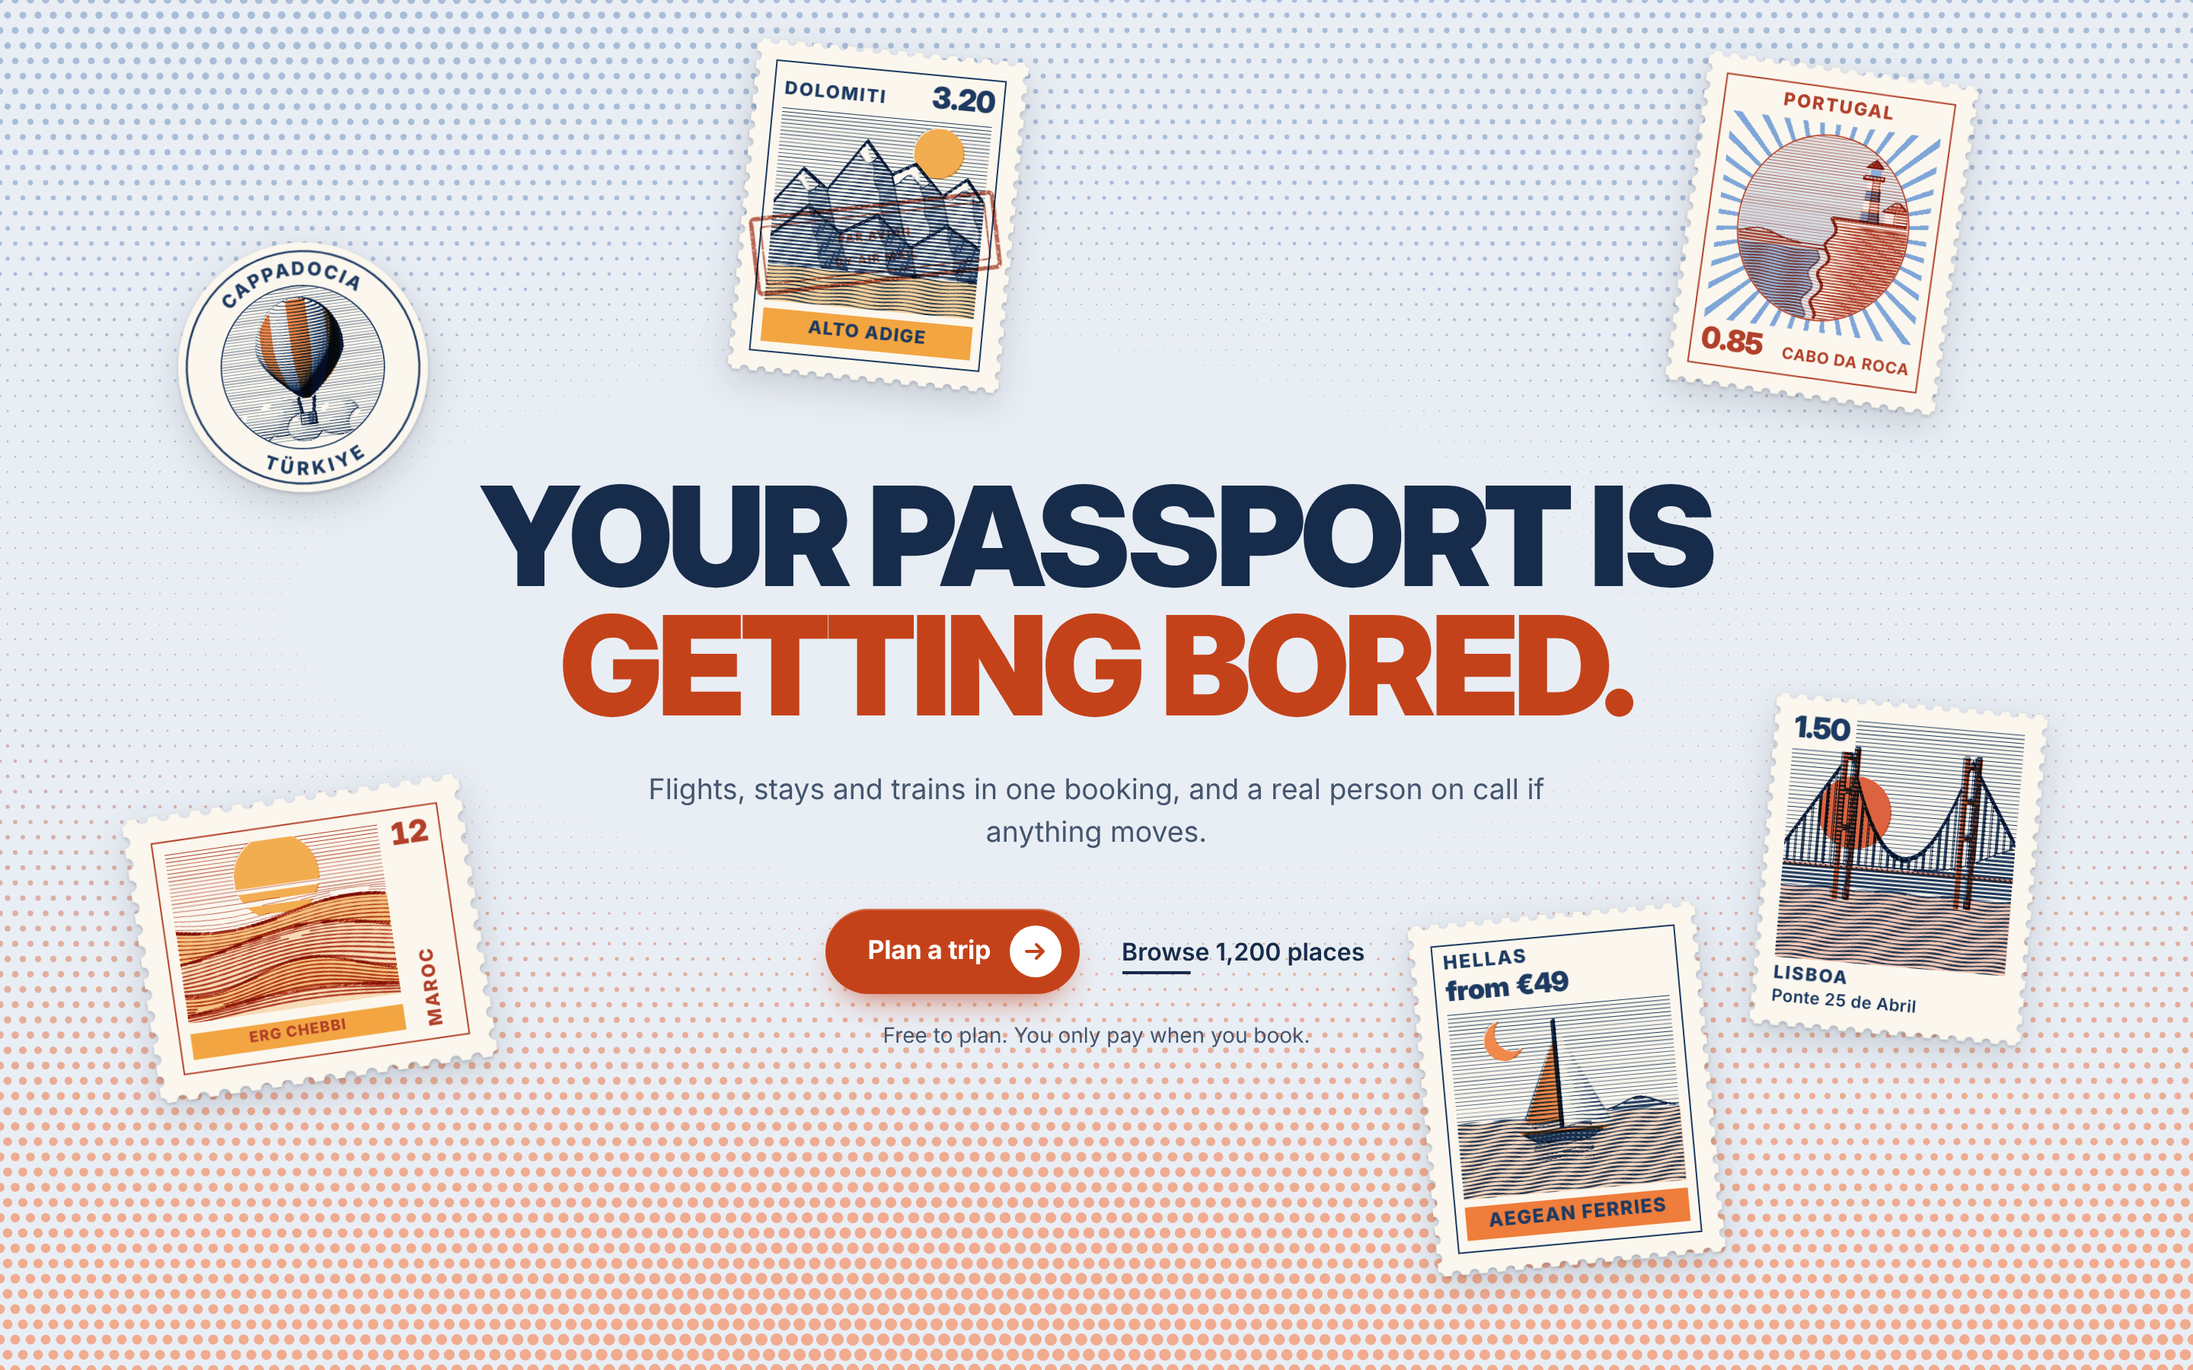
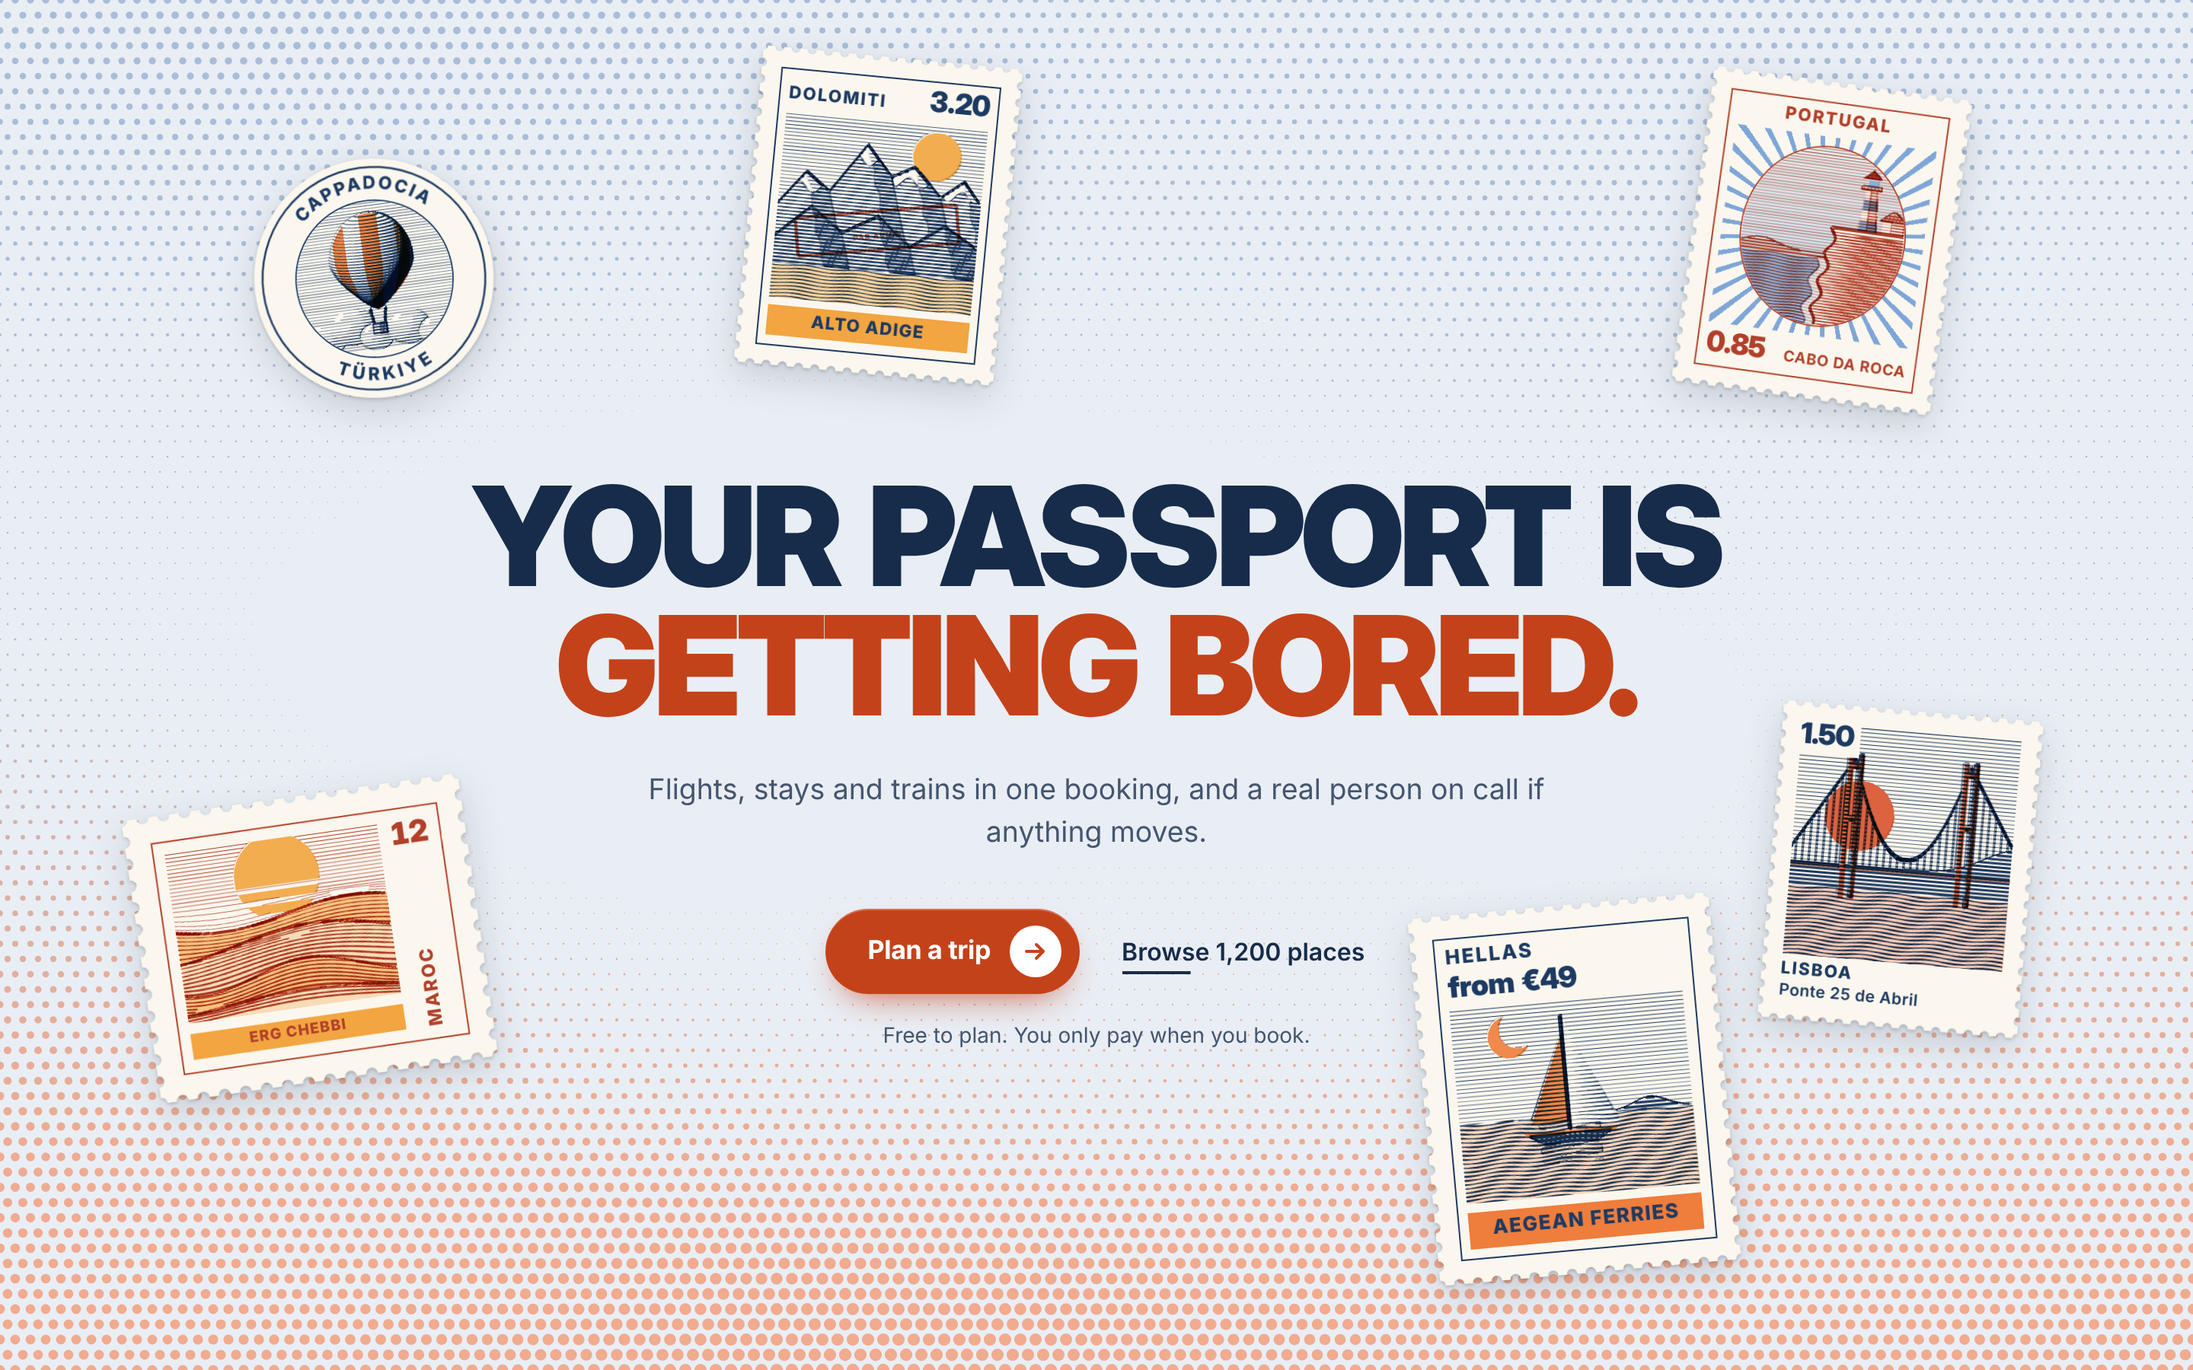
postmark-cta: round 3 fixes (slogan cancel, short viewports, word spacing, clear field under the copy)
Claude-Session: https://claude.ai/code/session_01LFCWVBYwCJCTStazoGiZv5

diff --git a/components/postmark-cta/postmark-cta.tsx b/components/postmark-cta/postmark-cta.tsx
@@ -218,11 +218,11 @@ export function band(x: number, lo: number, hi: number, dim: number) {
 }
 
 /** Halftone dot radius as a fraction of the pitch: big at the bottom, quieter at the top, clear behind the copy. */
-export function dotSize(x: number, y: number) {
+export function dotSize(x: number, y: number, c: number[] = [0.5, 0.48, 0.34, 0.3]) {
   const base = 0.12 + 0.6 * smooth(0.42, 1.04, y) + 0.32 * smooth(0.36, -0.08, y)
   const wave = 0.06 * Math.sin(x * 9.1 + y * 4.3) + 0.05 * Math.sin(x * 3.7 - y * 7.9 + 1.3)
-  const dx = (x - 0.5) / 0.34
-  const dy = (y - 0.48) / 0.3
+  const dx = (x - c[0]) / c[2]
+  const dy = (y - c[1]) / c[3]
   const clear = smooth(0.55, 1.25, Math.sqrt(dx * dx + dy * dy))
   return clamp01((base + wave) * (0.25 + 0.75 * clear))
 }
@@ -541,7 +541,7 @@ export const SCENES: { [k: string]: Scene } = {
     // towers: two legs and cross beams, in the second ink
     for (const c of [0.27, 0.77]) {
       const leg = Math.abs(u - (c - 0.024)) < 0.011 || Math.abs(u - (c + 0.024)) < 0.011
-      const beam = Math.abs(u - c) < 0.035 && [0.16, 0.3, 0.45].some((y) => Math.abs(v - y) < 0.01)
+      const beam = Math.abs(u - c) < 0.035 && [0.17, 0.4].some((y) => Math.abs(v - y) < 0.012)
       if (v > 0.12 && v < 0.74 && (leg || beam)) {
         l = u < c ? 0.48 : 0.2
         t = 1
@@ -765,10 +765,8 @@ export const SCENES: { [k: string]: Scene } = {
       t = 1
     } else if (inPoly([0.25, 0.335, 0.5, 0.47, 0.5, 0.8, 0.25, 0.665])) {
       l = 0.6
-      b = (u - 0.25) * 0.54
     } else if (inPoly([0.5, 0.47, 0.75, 0.335, 0.75, 0.665, 0.5, 0.8])) {
-      l = 0.2
-      b = -(u - 0.5) * 0.54
+      l = 0.24
     }
     return [l, t, b]
   },
@@ -992,12 +990,12 @@ const PRESETS: { [k: string]: PresetDef } = {
       ctaLabel: "Plan a trip",
       secondaryLabel: "Browse 1,200 places",
       note: "Free to plan. You only pay when you book.",
-      postmark: { top: "BON VOYAGE", bottom: "POSTED TODAY", slogan: "PAR AVION\nBY AIR MAIL" },
+      postmark: { top: "BON VOYAGE", bottom: "POSTED TODAY", slogan: "PAR AVION" },
     },
     stamps: [
       { art: "balloon", shape: "round", label: "CAPPADOCIA", caption: "TÜRKIYE", ink: "#1d3a62", tint: "#ef7d3b", scale: 0.92 },
       { art: "peaks", label: "DOLOMITI", value: "3.20", caption: "Alto Adige", ink: "#1d3a62", tint: "#f2a541", cancelled: true },
-      { art: "sail", label: "HELLAS", value: "from €49", caption: "Aegean ferries", ink: "#1d3a62", tint: "#ef7d3b", scale: 1.06 },
+      { art: "sail", label: "HELLAS", value: "from €49", caption: "Aegean ferries", ink: "#1d3a62", tint: "#ef7d3b", scale: 1.16 },
       { art: "dunes", label: "MAROC", value: "12", caption: "Erg Chebbi", ink: "#b2402a", tint: "#f2a541", shape: "landscape" },
       { art: "lighthouse", label: "PORTUGAL", value: "0.85", caption: "Cabo da Roca", ink: "#b2402a", tint: "#7fa6d8", frame: "oval" },
       { art: "bridge", label: "LISBOA", value: "1.50", caption: "Ponte 25 de Abril", ink: "#1d3a62", tint: "#d9522e", frame: "bare" },
@@ -1013,12 +1011,12 @@ const PRESETS: { [k: string]: PresetDef } = {
       ctaLabel: "Build my first box",
       secondaryLabel: "See this week’s menu",
       note: "Skip a week or cancel any time, in two taps.",
-      postmark: { top: "FARM TO DOOR", bottom: "PACKED TODAY", slogan: "KEEP COOL\nFRESH PRODUCE" },
+      postmark: { top: "FARM TO DOOR", bottom: "PACKED TODAY", slogan: "KEEP COOL" },
     },
     stamps: [
       { art: "olives", shape: "round", label: "OLIO NUOVO", caption: "PUGLIA", ink: "#24472f", tint: "#9bb04a", scale: 0.92 },
       { art: "lemon", label: "AMALFI", value: "2.40", caption: "Sfusato lemons", ink: "#24472f", tint: "#f2c230", shape: "landscape", cancelled: true },
-      { art: "tomato", label: "WEEK ONE", value: "half price", caption: "Heirloom tomato", ink: "#24472f", tint: "#e2553f", scale: 1.06 },
+      { art: "tomato", label: "WEEK ONE", value: "half price", caption: "Heirloom tomato", ink: "#24472f", tint: "#e2553f", scale: 1.16 },
       { art: "pear", label: "ANJOU", value: "1.10", caption: "Winter pears", ink: "#7e2a1d", tint: "#d8b13c", frame: "oval" },
       { art: "cherries", label: "KENT", value: "0.90", caption: "Early cherries", ink: "#7e2a1d", tint: "#e2553f", frame: "bare" },
     ],
@@ -1033,12 +1031,12 @@ const PRESETS: { [k: string]: PresetDef } = {
       ctaLabel: "Start a project",
       secondaryLabel: "See the work",
       note: "We reply within two working days.",
-      postmark: { top: "STUDIO MAIL", bottom: "RECEIVED", slogan: "PRINTED MATTER\nDO NOT BEND" },
+      postmark: { top: "STUDIO MAIL", bottom: "RECEIVED", slogan: "BY HAND" },
     },
     stamps: [
       { art: "ring", shape: "round", label: "FORM STUDY", caption: "NO. 04", ink: "#21254f", tint: "#ff6b3d", scale: 0.9 },
       { art: "sphere", label: "SPHERE", value: "I", caption: "Light study", ink: "#21254f", tint: "#ff6b3d", shape: "landscape", cancelled: true },
-      { art: "cube", label: "INTAKE", value: "Q1 2027", caption: "Two slots open", ink: "#21254f", tint: "#f6c445", scale: 1.06 },
+      { art: "cube", label: "INTAKE", value: "Q1 2027", caption: "Two slots open", ink: "#21254f", tint: "#f6c445", scale: 1.16 },
       { art: "arch", label: "ARCH", value: "IV", caption: "Light study", ink: "#5c1f3c", tint: "#ff8a5c", frame: "bare" },
       { art: "cone", label: "CONE", value: "II", caption: "Light study", ink: "#5c1f3c", tint: "#9fb3ff", frame: "oval" },
     ],
@@ -1070,10 +1068,10 @@ const CSS = `
 .pm-in { position: relative; min-height: var(--pm-h); display: grid; place-items: center; padding: clamp(110px, 11cqw, 170px) 16px; }
 .pm-dots { position: absolute; inset: 0; width: 100%; height: 100%; max-width: none; pointer-events: none; z-index: 0; }
 
-.pm-copy { position: relative; z-index: 2; display: flex; flex-direction: column; align-items: center; text-align: center; max-width: 820px; pointer-events: none; }
+.pm-copy { position: relative; z-index: 2; display: flex; flex-direction: column; align-items: center; text-align: center; max-width: 880px; pointer-events: none; }
 .pm-h {
   margin: 0; font-family: var(--pm-display); font-weight: 900; text-transform: uppercase;
-  font-size: clamp(38px, 6.3cqw, 96px); line-height: 0.93; letter-spacing: -0.035em; color: var(--k);
+  font-size: clamp(38px, 6.3cqw, 96px); line-height: 0.93; letter-spacing: -0.035em; word-spacing: 0.06em; color: var(--k);
   text-wrap: balance;
 }
 .pm-line { display: block; }
@@ -1163,12 +1161,12 @@ const CSS = `
 .pm-face[data-frame="classic"][data-shape="landscape"] { display: grid; grid-template-columns: 1fr auto; grid-template-rows: 1fr auto; }
 .pm-face[data-shape="landscape"] .pm-art { grid-column: 1; grid-row: 1; }
 .pm-face[data-shape="landscape"] .pm-cap { grid-column: 1; grid-row: 2; font-size: 4.4cqw; padding: 1.8cqw; }
-.pm-face[data-shape="landscape"] ~ .pm-old { top: 22%; left: 2%; width: 84%; }
+.pm-face[data-shape="landscape"] ~ .pm-old { top: 30%; left: 14%; width: 56%; }
 .pm-side { grid-column: 2; grid-row: 1 / 3; display: flex; flex-direction: column; align-items: center; justify-content: space-between; padding-left: 0.5cqw; }
 .pm-side .pm-value { font-size: 9cqw; }
 .pm-vert { writing-mode: vertical-rl; transform: rotate(180deg); font-size: 5.4cqw; }
-.pm-slogan { font: 900 19px/1 var(--pm-text); letter-spacing: 0.14em; fill: currentColor; }
-.pm-slogan-2 { font-size: 13px; font-weight: 800; letter-spacing: 0.2em; }
+.pm-slogan { font: 900 27px/1 var(--pm-text); letter-spacing: 0.12em; fill: currentColor; }
+.pm-slogan-2 { font-size: 16px; font-weight: 800; letter-spacing: 0.16em; }
 .pm-round .pm-face { inset: 0; border: 0; padding: 0; }
 .pm-round .pm-art { position: absolute; inset: 17%; border-radius: 50%; border: max(1px, 0.7cqw) solid var(--si); }
 .pm-ring-text { font: 800 7.4px/1 var(--pm-text); letter-spacing: 0.16em; fill: var(--si); text-transform: uppercase; }
@@ -1178,10 +1176,10 @@ const CSS = `
 .pm-mark svg { display: block; width: 100%; height: auto; max-width: none; overflow: visible; }
 .pm-mark text { font: 800 9px/1 var(--pm-text); letter-spacing: 0.12em; fill: currentColor; }
 .pm-mark .pm-date { font-size: 11px; letter-spacing: 0.04em; }
-.pm-old { left: 4%; top: 46%; width: 92%; rotate: -12deg; opacity: 0.78; color: #a63521; }
+.pm-old { left: 18%; top: 48%; width: 64%; rotate: -10deg; opacity: 0.86; color: #a63521; }
 .pm-live { left: 24%; top: 42%; width: 86%; rotate: -9deg; opacity: 1; }
 .pm-ghost { opacity: 0; transform: translateY(-14px) scale(1.12); transition: opacity 200ms var(--pm-out), transform 260ms var(--pm-out); }
-.pm[data-armed="true"] .pm-ghost { opacity: 0.5; transform: translateY(-8px) scale(1.06); }
+.pm[data-armed="true"] .pm-ghost { opacity: 0.62; transform: translateY(-8px) scale(1.06); }
 .pm-slam { animation: pm-slam 260ms cubic-bezier(0.3, 0, 0.2, 1) both; }
 .pm-slam .pm-bar { stroke-dasharray: 160; animation: pm-bars 300ms var(--pm-out) 70ms both; }
 
@@ -1295,15 +1293,14 @@ function Postmark(props: { top: string; bottom: string; date: string; bars?: num
 function Slogan(props: { text: string; filter: string }) {
   const [a, b = ""] = props.text.split("\n")
   return (
-    <svg viewBox="0 0 200 66" aria-hidden="true">
+    <svg viewBox={"0 0 200 " + (b ? 72 : 52)} aria-hidden="true">
       <g filter={"url(#" + props.filter + ")"}>
-        <rect x="3" y="3" width="194" height="60" rx="3" fill="none" stroke="currentColor" strokeWidth="3.4" />
-        <rect x="10" y="10" width="180" height="46" rx="2" fill="none" stroke="currentColor" strokeWidth="1.4" />
-        <text className="pm-slogan" x="100" y={b ? 30 : 39} textAnchor="middle">
+        <rect x="3" y="3" width="194" height={b ? 66 : 46} rx="3" fill="none" stroke="currentColor" strokeWidth="4" />
+        <text className="pm-slogan" x="100" y={b ? 33 : 35.5} textAnchor="middle">
           {a}
         </text>
         {b ? (
-          <text className="pm-slogan pm-slogan-2" x="100" y="48" textAnchor="middle">
+          <text className="pm-slogan pm-slogan-2" x="100" y="57" textAnchor="middle">
             {b}
           </text>
         ) : null}
@@ -1583,6 +1580,7 @@ export default function PostmarkCta(props: PostmarkCtaProps) {
   const [armed, setArmed] = React.useState(false)
   const rootRef = React.useRef(null as HTMLElement | null)
   const canvasRef = React.useRef(null as HTMLCanvasElement | null)
+  const copyRef = React.useRef(null as HTMLDivElement | null)
   const slotRefs = React.useRef([] as (HTMLDivElement | null)[])
   const dragRefs = React.useRef([] as (HTMLDivElement | null)[])
 
@@ -1618,6 +1616,12 @@ export default function PostmarkCta(props: PostmarkCtaProps) {
         const a = cs.getPropertyValue("--dA").trim()
         const b = cs.getPropertyValue("--dB").trim()
         const pitch = w < 720 ? 8 : 10
+        // clear the field round the copy as it actually sits, so small text never lands on dots
+        const cr = copyRef.current?.getBoundingClientRect()
+        const rr = root.getBoundingClientRect()
+        const clearing = cr
+          ? [(cr.left + cr.width / 2 - rr.left) / w, (cr.top + cr.height / 2 - rr.top) / h, (cr.width / w) * 0.62 + 0.04, (cr.height / h) * 0.62 + 0.05]
+          : undefined
         const rows = Math.ceil(h / pitch) + 1
         const cols = Math.ceil(w / pitch) + 1
         for (let j = 0; j < rows; j++) {
@@ -1627,7 +1631,7 @@ export default function PostmarkCta(props: PostmarkCtaProps) {
           ctx.beginPath()
           for (let i = 0; i < cols; i++) {
             const x = i * pitch + (j % 2 ? pitch / 2 : 0)
-            const r = dotSize(x / w, yn) * pitch * 0.5
+            const r = dotSize(x / w, yn, clearing) * pitch * 0.5
             if (r < 0.35) continue
             ctx.moveTo(x + r, y)
             ctx.arc(x, y, r, 0, Math.PI * 2)
@@ -1650,7 +1654,6 @@ export default function PostmarkCta(props: PostmarkCtaProps) {
   }, [colourKey])
 
   // ---- keep every stamp off the copy, whatever its length
-  const copyRef = React.useRef(null as HTMLDivElement | null)
   React.useEffect(() => {
     const root = rootRef.current
     const copy = copyRef.current
@@ -1670,7 +1673,8 @@ export default function PostmarkCta(props: PostmarkCtaProps) {
           const base = { left: r.left - nx, right: r.right - nx, top: r.top - ny, bottom: r.bottom - ny }
           let [dx, dy, ok] = clearOf(base, avoid, frame, 24)
           // a cramped section: hanging a little off the edge beats sitting on the copy or a long jump across it
-          const [lx, ly, lok] = clearOf(base, avoid, frame, 24, 0.3)
+          // only the perforated margin may hang off, never the label band
+          const [lx, ly, lok] = clearOf(base, avoid, frame, 24, 0.08)
           if (lok && (!ok || Math.hypot(lx, ly) < Math.hypot(dx, dy) * 0.6)) [dx, dy] = [lx, ly]
           else if (!ok) [dx, dy] = [lx, ly]
           slot.style.setProperty("--nx", dx.toFixed(1) + "px")
@@ -1972,7 +1976,7 @@ export default function PostmarkCta(props: PostmarkCtaProps) {
             "--y": (s.y ?? slot.y) + "%",
             "--cx": slot.c ? slot.c.x : "50%",
             "--cy": slot.c ? slot.c.y : "50%",
-            "--w": s.shape === "landscape" ? "clamp(140px, min(15.5cqw, 27vh), 248px)" : "clamp(112px, min(12.4cqw, 21vh), 196px)",
+            "--w": s.shape === "landscape" ? "clamp(136px, min(15.5cqw, 25vh), 248px)" : "clamp(106px, min(12.4cqw, 19vh), 196px)",
             "--s": String(clamp(s.scale ?? 1, 0.7, 1.3)),
             "--r": (s.rotate ?? slot.r) + "deg",
             "--d": String(slot.d),

diff --git a/media/postmark-cta/review.md b/media/postmark-cta/review.md
@@ -111,3 +111,39 @@ Critic's changes, most important first, and what was done:
    opacity) and the offer stamp dips 2 px as it lands.
 6. Dark mode lost the bars past the stamp. **Done:** the live postmark is now sized so the bars
    end at the stamp's edge.
+
+## Round 3 (final): REDO (average 7.8)
+
+| | Score |
+|---|---|
+| Usability | 8 |
+| Idea | 8 |
+| Craft | 7 |
+| Originality | 7 |
+| Install-safety | 9 |
+
+Nothing below 7, but the average is under 8, so by the brief this piece lives on
+`claude/review-postmark-cta` for the owner to decide. What the critic credited: the postmark slam
+with the wavy bars and date die, stamps settling clear of the copy after repeated throws, three
+presets that look different from each other, a designed phone layout, correct focus ring and
+reduced-motion state.
+
+Its changes were applied after the verdict (not re-scored, the brief allows three rounds):
+
+1. The slogan overprint was illegible and ran past the frame. **Done:** one short line in
+   heavier, larger type in a single ruled box, kept inside the art window ("PAR AVION",
+   "KEEP COOL", "BY HAND").
+2. Short viewports cut the top stamp's label. **Done:** stamps shrink with viewport height a
+   little more, and only the perforated margin (8%) may hang off an edge, never the label band.
+3. Headline word gaps collapsed under the tight tracking. **Done:** `word-spacing: 0.06em`, and
+   the copy column is 880 px so the voyage headline still sets in two lines.
+4. Halftone dots ran under the small note. **Done:** the clearing in the field is now measured
+   from the copy as it actually sits, so the note and secondary link sit on a clear ground.
+5. Engraving tells. **Done:** the cube's faces use straight lines (no slivers); the bridge towers
+   have two beams instead of a ladder. The peaks' layering was left as is.
+6. Fonts: the headline stack leads with Inter Display where installed and falls back to the
+   system UI face at 900; `displayFont` is documented for installers who want their own face.
+7. Originality of the static frame. **Partly done:** the offer stamp that takes the postmark is
+   now visibly larger (scale 1.16) than the rest of the set; the ring layout is otherwise the
+   reference's.
+8. The armed ghost postmark is at 62% so the hover preview reads.
